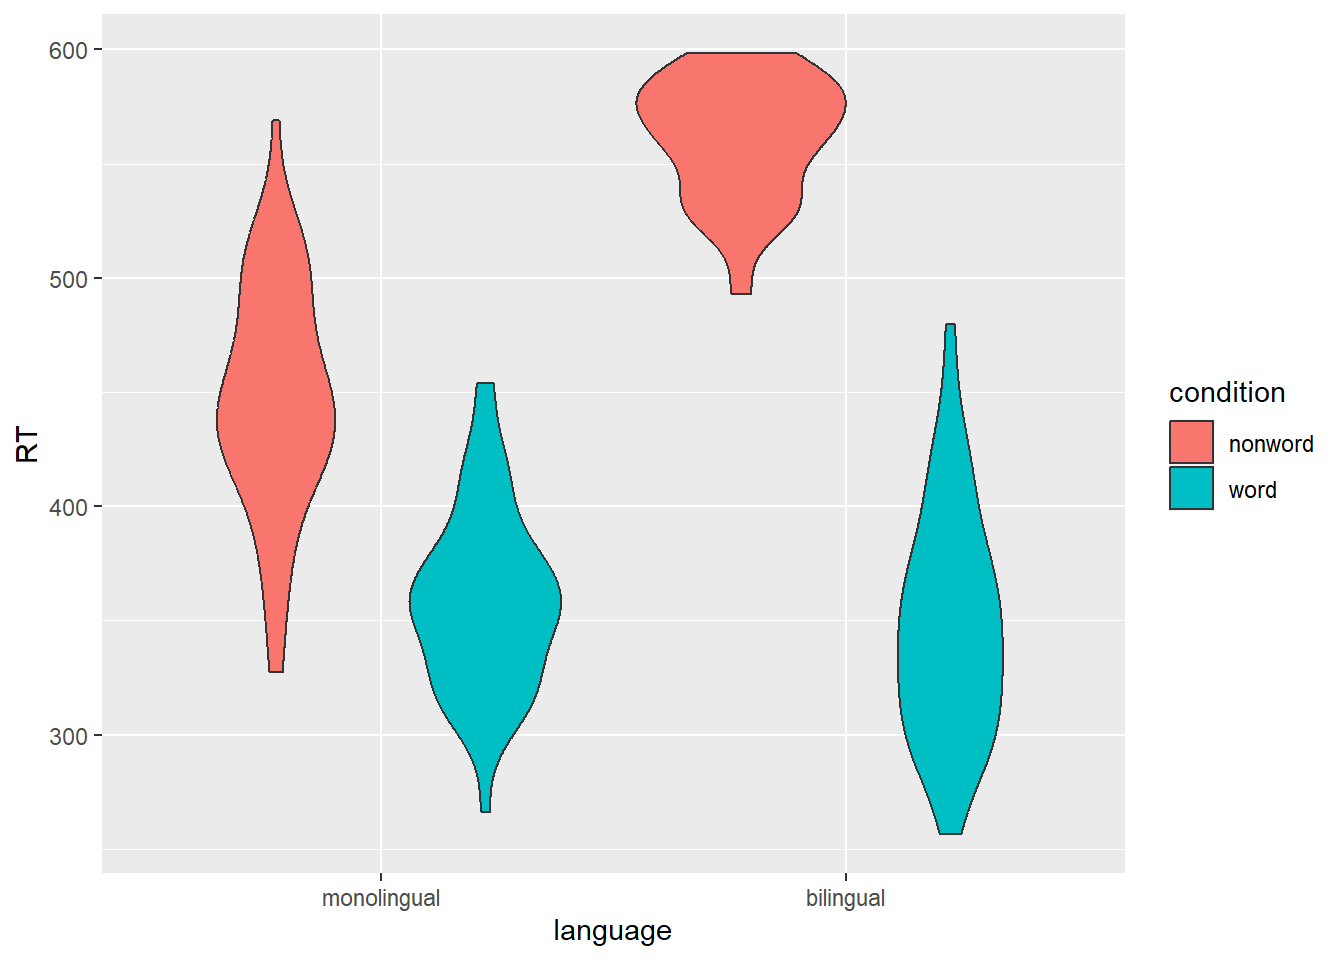
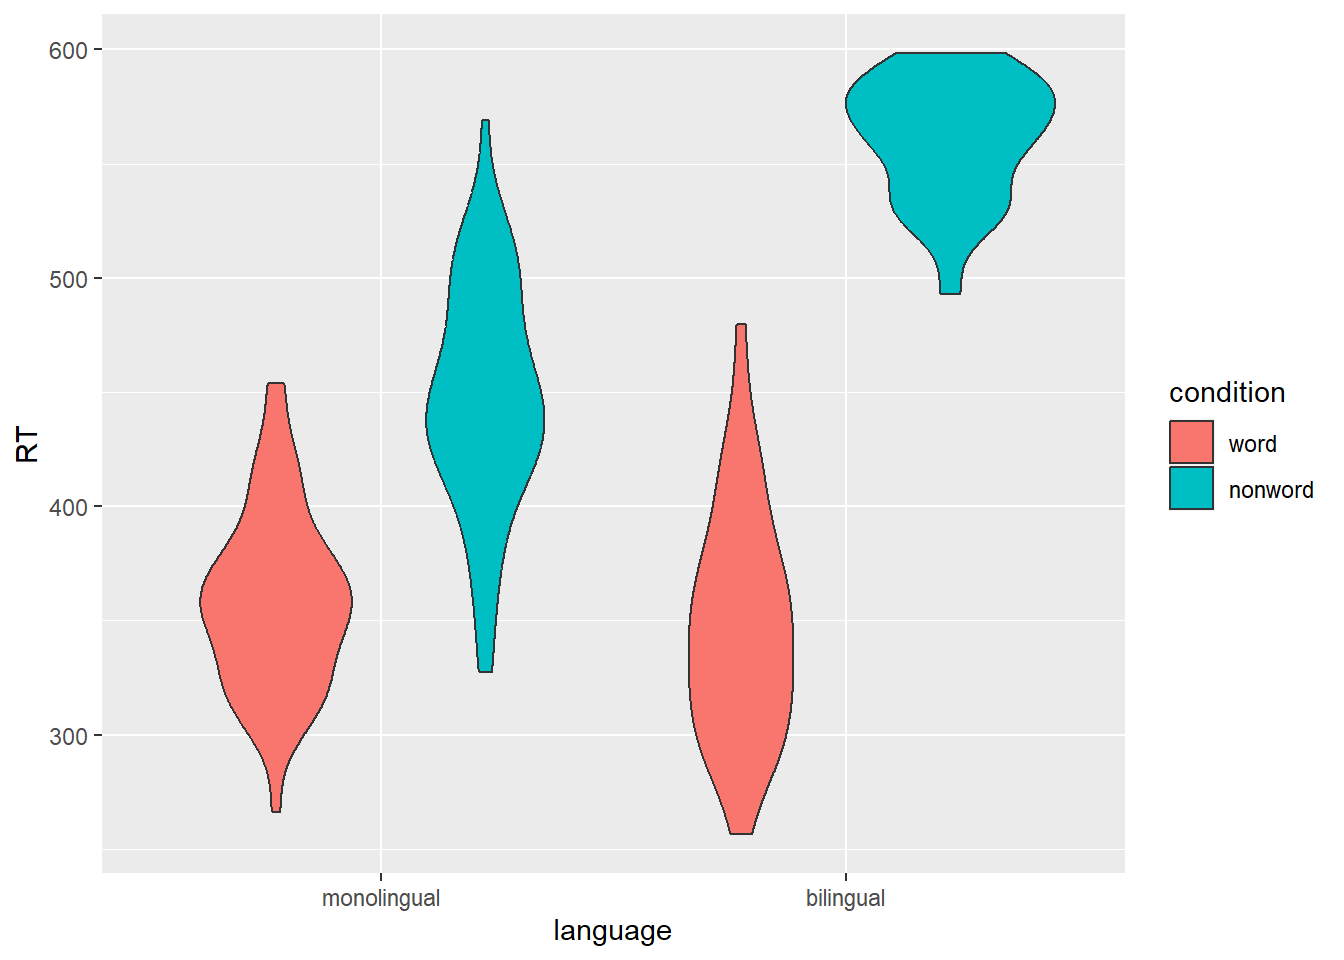
edit

diff --git a/docs/exercises.html b/docs/exercises.html
@@ -593,12 +593,15 @@ Show me how
 <span id="cb12-5"><a href="#cb12-5" aria-hidden="true" tabindex="-1"></a>    <span class="at">values_to =</span> <span class="st">"RT"</span></span>
 <span id="cb12-6"><a href="#cb12-6" aria-hidden="true" tabindex="-1"></a>  )</span>
 <span id="cb12-7"><a href="#cb12-7" aria-hidden="true" tabindex="-1"></a></span>
-<span id="cb12-8"><a href="#cb12-8" aria-hidden="true" tabindex="-1"></a><span class="co"># check that it worked</span></span>
-<span id="cb12-9"><a href="#cb12-9" aria-hidden="true" tabindex="-1"></a>dat</span></code><button title="Copy to Clipboard" class="code-copy-button"><i class="bi"></i></button></pre></div>
+<span id="cb12-8"><a href="#cb12-8" aria-hidden="true" tabindex="-1"></a><span class="co"># Let's make condition be a factor</span></span>
+<span id="cb12-9"><a href="#cb12-9" aria-hidden="true" tabindex="-1"></a>dat<span class="sc">$</span>condition <span class="ot">&lt;-</span> <span class="fu">as_factor</span>(dat<span class="sc">$</span>condition)</span>
+<span id="cb12-10"><a href="#cb12-10" aria-hidden="true" tabindex="-1"></a></span>
+<span id="cb12-11"><a href="#cb12-11" aria-hidden="true" tabindex="-1"></a><span class="co"># check that it worked</span></span>
+<span id="cb12-12"><a href="#cb12-12" aria-hidden="true" tabindex="-1"></a>dat</span></code><button title="Copy to Clipboard" class="code-copy-button"><i class="bi"></i></button></pre></div>
 <div class="cell-output cell-output-stdout">
 <pre><code># A tibble: 200 × 5
    id      age language    condition    RT
-   &lt;chr&gt; &lt;dbl&gt; &lt;fct&gt;       &lt;chr&gt;     &lt;dbl&gt;
+   &lt;chr&gt; &lt;dbl&gt; &lt;fct&gt;       &lt;fct&gt;     &lt;dbl&gt;
  1 S001     22 monolingual word       379.
  2 S001     22 monolingual nonword    517.
  3 S002     33 monolingual word       312.
@@ -659,13 +662,13 @@ Show me how
 <span id="cb14-3"><a href="#cb14-3" aria-hidden="true" tabindex="-1"></a><span class="co"># check the new maximum for RT</span></span>
 <span id="cb14-4"><a href="#cb14-4" aria-hidden="true" tabindex="-1"></a><span class="fu">summary</span>(dat)</span></code><button title="Copy to Clipboard" class="code-copy-button"><i class="bi"></i></button></pre></div>
 <div class="cell-output cell-output-stdout">
-<pre><code>      id                 age               language    condition        
- Length:180         Min.   :18.00   monolingual:110   Length:180        
- Class :character   1st Qu.:24.00   bilingual  : 70   Class :character  
- Mode  :character   Median :28.00                     Mode  :character  
-                    Mean   :29.29                                       
-                    3rd Qu.:33.00                                       
-                    Max.   :58.00                                       
+<pre><code>      id                 age               language     condition  
+ Length:180         Min.   :18.00   monolingual:110   word   :100  
+ Class :character   1st Qu.:24.00   bilingual  : 70   nonword: 80  
+ Mode  :character   Median :28.00                                  
+                    Mean   :29.29                                  
+                    3rd Qu.:33.00                                  
+                    Max.   :58.00                                  
        RT       
  Min.   :256.3  
  1st Qu.:346.4  
@@ -749,23 +752,23 @@ Show me how
 <tbody>
 <tr class="odd">
 <td style="text-align: left;">monolingual</td>
-<td style="text-align: left;">nonword</td>
-<td style="text-align: right;">447.7275</td>
-</tr>
-<tr class="even">
-<td style="text-align: left;">monolingual</td>
 <td style="text-align: left;">word</td>
 <td style="text-align: right;">358.1143</td>
 </tr>
-<tr class="odd">
-<td style="text-align: left;">bilingual</td>
-<td style="text-align: left;">nonword</td>
-<td style="text-align: right;">561.1946</td>
-</tr>
 <tr class="even">
+<td style="text-align: left;">monolingual</td>
+<td style="text-align: left;">nonword</td>
+<td style="text-align: right;">447.7275</td>
+</tr>
+<tr class="odd">
 <td style="text-align: left;">bilingual</td>
 <td style="text-align: left;">word</td>
 <td style="text-align: right;">348.1346</td>
+</tr>
+<tr class="even">
+<td style="text-align: left;">bilingual</td>
+<td style="text-align: left;">nonword</td>
+<td style="text-align: right;">561.1946</td>
 </tr>
 </tbody>
 </table>
@@ -804,20 +807,17 @@ Show me how
 <span id="cb17-2"><a href="#cb17-2" aria-hidden="true" tabindex="-1"></a>  <span class="fu">group_by</span>(language, condition) <span class="sc">%&gt;%</span> </span>
 <span id="cb17-3"><a href="#cb17-3" aria-hidden="true" tabindex="-1"></a>  <span class="fu">summarise</span>(<span class="at">meanRT =</span> <span class="fu">mean</span>(RT))</span>
 <span id="cb17-4"><a href="#cb17-4" aria-hidden="true" tabindex="-1"></a></span>
-<span id="cb17-5"><a href="#cb17-5" aria-hidden="true" tabindex="-1"></a><span class="co"># Let's make condition be a factor</span></span>
-<span id="cb17-6"><a href="#cb17-6" aria-hidden="true" tabindex="-1"></a>dat<span class="sc">$</span>condition <span class="ot">&lt;-</span> <span class="fu">as_factor</span>(dat<span class="sc">$</span>condition)</span>
-<span id="cb17-7"><a href="#cb17-7" aria-hidden="true" tabindex="-1"></a></span>
-<span id="cb17-8"><a href="#cb17-8" aria-hidden="true" tabindex="-1"></a><span class="co"># check that it worked</span></span>
-<span id="cb17-9"><a href="#cb17-9" aria-hidden="true" tabindex="-1"></a>dat</span></code><button title="Copy to Clipboard" class="code-copy-button"><i class="bi"></i></button></pre></div>
+<span id="cb17-5"><a href="#cb17-5" aria-hidden="true" tabindex="-1"></a><span class="co"># check that it worked</span></span>
+<span id="cb17-6"><a href="#cb17-6" aria-hidden="true" tabindex="-1"></a>dat</span></code><button title="Copy to Clipboard" class="code-copy-button"><i class="bi"></i></button></pre></div>
 <div class="cell-output cell-output-stdout">
 <pre><code># A tibble: 4 × 3
 # Groups:   language [2]
   language    condition meanRT
   &lt;fct&gt;       &lt;fct&gt;      &lt;dbl&gt;
-1 monolingual nonword     448.
-2 monolingual word        358.
-3 bilingual   nonword     561.
-4 bilingual   word        348.</code></pre>
+1 monolingual word        358.
+2 monolingual nonword     448.
+3 bilingual   word        348.
+4 bilingual   nonword     561.</code></pre>
 </div>
 <div class="sourceCode cell-code" id="cb19"><pre class="sourceCode r code-with-copy"><code class="sourceCode r"><span id="cb19-1"><a href="#cb19-1" aria-hidden="true" tabindex="-1"></a>knitr<span class="sc">::</span><span class="fu">kable</span>(dat)</span></code><button title="Copy to Clipboard" class="code-copy-button"><i class="bi"></i></button></pre></div>
 <div class="cell-output-display">
@@ -832,23 +832,23 @@ Show me how
 <tbody>
 <tr class="odd">
 <td style="text-align: left;">monolingual</td>
-<td style="text-align: left;">nonword</td>
-<td style="text-align: right;">447.7275</td>
-</tr>
-<tr class="even">
-<td style="text-align: left;">monolingual</td>
 <td style="text-align: left;">word</td>
 <td style="text-align: right;">358.1143</td>
 </tr>
-<tr class="odd">
-<td style="text-align: left;">bilingual</td>
-<td style="text-align: left;">nonword</td>
-<td style="text-align: right;">561.1946</td>
-</tr>
 <tr class="even">
+<td style="text-align: left;">monolingual</td>
+<td style="text-align: left;">nonword</td>
+<td style="text-align: right;">447.7275</td>
+</tr>
+<tr class="odd">
 <td style="text-align: left;">bilingual</td>
 <td style="text-align: left;">word</td>
 <td style="text-align: right;">348.1346</td>
+</tr>
+<tr class="even">
+<td style="text-align: left;">bilingual</td>
+<td style="text-align: left;">nonword</td>
+<td style="text-align: right;">561.1946</td>
 </tr>
 </tbody>
 </table>

diff --git a/docs/index.html b/docs/index.html
@@ -158,7 +158,7 @@ ul.task-list li input[type="checkbox"] {
 <section id="about" class="level1 unnumbered">
 <h1 class="unnumbered">About</h1>
 <p>This is training in R, for the winter 2023 cohort.<br>
-Last compiled Wednesday 25 January 2023 at 00:45:06</p>
+Last compiled Wednesday 25 January 2023 at 00:49:40</p>
 <table class="table">
 <thead>
 <tr class="header">
